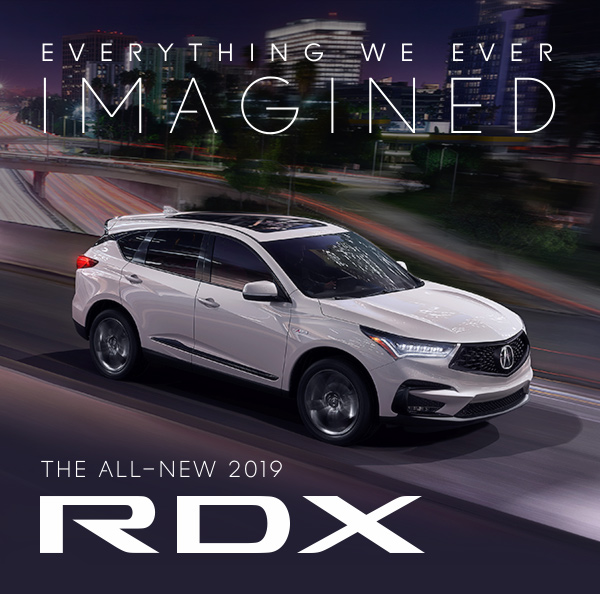
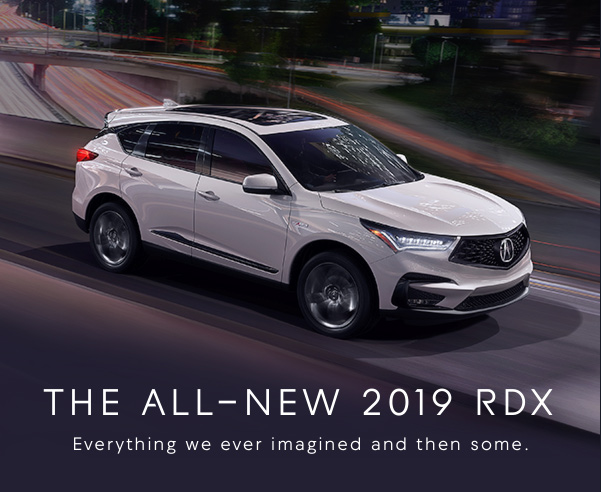
Image swap

diff --git a/review.web/Content/Review/2018-june-newsletter-versionA_assets.html b/review.web/Content/Review/2018-june-newsletter-versionA_assets.html
@@ -136,7 +136,7 @@
                                   </tr>
                                   <tr>
                                       <td>
-                                          <a style="margin:0;padding:0; border:none;text-decoration:none;text-align:center;" href="https://www.acura.com/rdx/?SP_RID=%%RECIPIENT_ID%%&SP_MID=%%MAILING_ID%%&PROGRAMID=%%PROGID%%&CAMPAIGNCODE=%%CAMPAIGNCODE%%&OFFERCODE=%%OFFERCODE%%&CELLCODE=%%CELL%%&PID=%%PID%%&LINKNAME=%%LINK_NAME%%" target="_blank"><img style="margin:0 auto;padding:0;border:none !important;outline:none !important;display:block;text-align:center; font-family:Helvetica, Arial, 'Lucida Grande', sans-serif; color:white; font-size:40px; max-width: 600px;" width="600" height="594" alt="EVERYTHING WE EVER IMAGINED - THE ALL-NEW 2019 RDX" src="2018-june-newsletter-versionA_assets/01.jpg"></a>
+                                          <a style="margin:0;padding:0; border:none;text-decoration:none;text-align:center;" href="https://www.acura.com/rdx/?SP_RID=%%RECIPIENT_ID%%&SP_MID=%%MAILING_ID%%&PROGRAMID=%%PROGID%%&CAMPAIGNCODE=%%CAMPAIGNCODE%%&OFFERCODE=%%OFFERCODE%%&CELLCODE=%%CELL%%&PID=%%PID%%&LINKNAME=%%LINK_NAME%%" target="_blank"><img style="margin:0 auto;padding:0;border:none !important;outline:none !important;display:block;text-align:center; font-family:Helvetica, Arial, 'Lucida Grande', sans-serif; color:white; font-size:40px; max-width: 600px;" width="600" height="492" alt="THE ALL-NEW 2019 RDX - EVERYTHING WE EVER IMAGINED" src="2018-june-newsletter-versionA_assets/01.jpg"></a>
                                       </td>
                                   </tr>
                                   <tr>

diff --git a/review.web/Content/Review/2018-june-newsletter-versionB_assets.html b/review.web/Content/Review/2018-june-newsletter-versionB_assets.html
@@ -136,7 +136,7 @@
                                   </tr>
                                   <tr>
                                       <td>
-                                          <a style="margin:0;padding:0; border:none;text-decoration:none;text-align:center;" href="https://www.acura.com/rdx/?SP_RID=%%RECIPIENT_ID%%&SP_MID=%%MAILING_ID%%&PROGRAMID=%%PROGID%%&CAMPAIGNCODE=%%CAMPAIGNCODE%%&OFFERCODE=%%OFFERCODE%%&CELLCODE=%%CELL%%&PID=%%PID%%&LINKNAME=%%LINK_NAME%%" target="_blank"><img style="margin:0 auto;padding:0;border:none !important;outline:none !important;display:block;text-align:center; font-family:Helvetica, Arial, 'Lucida Grande', sans-serif; color:white; font-size:40px; max-width: 600px;" width="600" height="594" alt="EVERYTHING WE EVER IMAGINED - THE ALL-NEW 2019 RDX" src="2018-june-newsletter-versionB_assets/01.jpg"></a>
+                                          <a style="margin:0;padding:0; border:none;text-decoration:none;text-align:center;" href="https://www.acura.com/rdx/?SP_RID=%%RECIPIENT_ID%%&SP_MID=%%MAILING_ID%%&PROGRAMID=%%PROGID%%&CAMPAIGNCODE=%%CAMPAIGNCODE%%&OFFERCODE=%%OFFERCODE%%&CELLCODE=%%CELL%%&PID=%%PID%%&LINKNAME=%%LINK_NAME%%" target="_blank"><img style="margin:0 auto;padding:0;border:none !important;outline:none !important;display:block;text-align:center; font-family:Helvetica, Arial, 'Lucida Grande', sans-serif; color:white; font-size:40px; max-width: 600px;" width="600" height="492" alt="THE ALL-NEW 2019 RDX - EVERYTHING WE EVER IMAGINED" src="2018-june-newsletter-versionA_assets/01.jpg"></a>
                                       </td>
                                   </tr>
                                   <tr>
